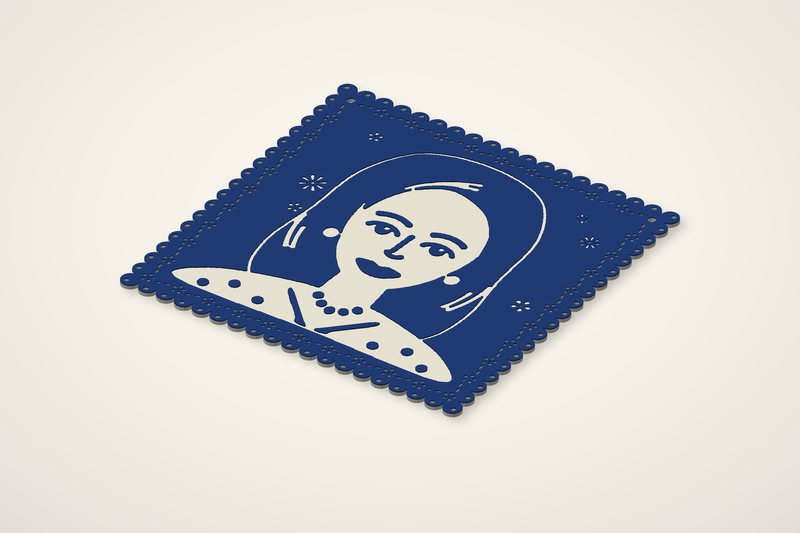
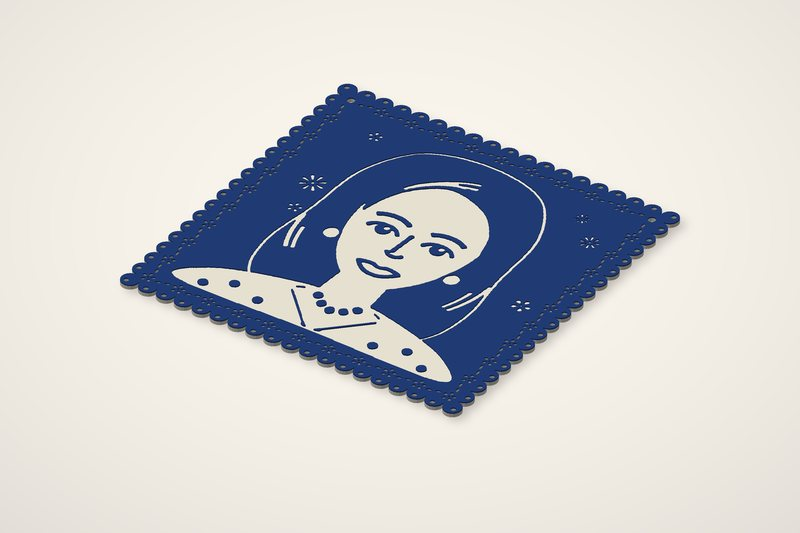
Papel portrait: a face is lines, not areas (a difference of Gaussians for the lines, a fill only for what is really dark), the narrowest line 0.7 mm
Roman set the reference beside our print of the same photo: ours was dark blots with thick rims, the reference thin
lines on a light face. A threshold on the picture made the hair of a fair face a blot, and the narrowest line of
0.9 mm (three cells) let no finer line through. Now a line is where the picture is darker than its surroundings
(near minus far blur below -tau), and a fill is only what is dark in itself: below the lowest of three levels of
grey and never above half the two-level split. "Portrait detail" is the width of the lines, "Light / dark" draws
more or fewer of them and fills more or less. The narrowest line is 0.7 mm (one wide extrusion), the small picture
of the result keeps one-cell lines, the share of dark is told with a decimal. Examples and card drawn again;
docs/T.md section 10.

diff --git a/engines/python/papel_portrait.py b/engines/python/papel_portrait.py
@@ -21,8 +21,9 @@ import tempfile
 import time
 
 HALO_MM = 1.2               # the light line between a dark head of hair and the dark ground
-LINE_MM = 0.9               # nothing of the picture is finer than about two printed lines
-PREVIEW_PX = 150            # the small picture of the result travels in a response header: it has to stay light
+LINE_MM = 0.7               # the narrowest line of the picture: one wide extrusion of a 0.4 mm nozzle, as the reference prints them
+FINE_MM = 0.6               # below this a line is in doubt on a 0.4 mm nozzle: the page warns when much of the picture is that fine
+PREVIEW_PX = 200            # the small picture of the result travels in a response header: it has to stay light
 PORTRAIT_PX = 480           # a portrait is read on a finer grid than a cut-out (creative_kinds.PAPEL_PX): a face is lines, not blots
 
 
@@ -247,27 +248,30 @@ def split(a, where, cell, darkness, detail):
     """
     Dark and light of a picture laid by lay(): True where the dark layer is printed, only within `where`.
 
-    A plain threshold makes a face a blot (half of it lies in shadow). The picture is first sharpened against a wide
-    blur of itself: where it is darker than its surroundings it gets darker still, so eyes, lips, glasses and strands
-    of hair come out as lines, while big dark areas stay filled. The level it is split at is the lower one of three
-    kinds of grey (otsu3), drawn a little towards the split in two. `detail` (0–100) is how fine the picture is
-    read; `darkness` moves the level (50 = where the picture splits itself).
+    A cut-paper portrait is lines, not areas: a threshold on the picture makes a face a blot. Two things are dark
+    here. Lines: where the picture is darker than its surroundings (a difference of Gaussians below -tau): brows,
+    eyes, the rim of glasses, lips, strands of hair, the shading of a cheek. Fill: what is really dark in itself
+    (dark hair, a coat, pupils): below the lowest of three levels of grey, and never above half of the one level
+    that splits the picture in two, so the hair of a fair face stays light. `detail` (0–100) is how fine the lines
+    are; `darkness` (50 = as the picture asks) draws more or fewer of them and fills more or less.
     Returns (dark, the smallest piece kept in cells, the width in cells below which nothing is printed).
     """
     import numpy as np
     from scipy import ndimage
     d = max(0.0, min(1.0, detail / 100.0))
-    thin = max(1, int(math.ceil(LINE_MM / cell - 0.05)))     # a pair of printed lines, in cells
-    sigma = max(3.2 - 2.3 * d, 0.35 * thin)                  # a small panel has small cells: never finer than it prints
-    near, far = ndimage.gaussian_filter(a, sigma), ndimage.gaussian_filter(a, sigma * 3.5)
-    sharp = near + (14.0 + 20.0 * d) * (near - far)
-    two = otsu(np, near[where]) if where.any() else None
+    thin = max(1, int(round(LINE_MM / cell)))                # the narrowest printed line, in cells
+    sigma = max(1.1 + 1.3 * (1.0 - d), 0.5 * thin)           # the width of a line; a small panel has small cells: never finer than it prints
+    near, far = ndimage.gaussian_filter(a, sigma), ndimage.gaussian_filter(a, 2.0 * sigma)
+    if not where.any():
+        return np.zeros(a.shape, dtype=bool), 4, thin
+    tau = 7.0 * 2.0 ** ((50.0 - darkness) / 25.0)
+    lines = (near - far) < -tau
+    two = otsu(np, near[where])
     if two is None:
         return np.zeros(a.shape, dtype=bool), 4, thin
-    low = otsu3(np, near[where])[0]
-    level = min(two, low + 0.15 * (two - low))
-    dark = (sharp <= level + (darkness - 50.0) * 2.0) & where
-    small = max(4, int(round(((2.4 - 1.2 * d) / cell) ** 2)))           # specks under 2.4 mm (few details) … 1.2 mm (many) go
+    fill = min(otsu3(np, near[where])[0], 0.5 * two) + (darkness - 50.0)
+    dark = (lines | (near <= fill)) & where
+    small = max(4, int(round(((2.0 - 1.0 * d) / cell) ** 2)))           # specks under 2 mm (few details) … 1 mm (many) go
     return dark, small, thin
 
 
@@ -317,7 +321,8 @@ def preview(np, dark):
     im = Image.fromarray(np.where(dark, 0, 255).astype(np.uint8), "L")
     im.thumbnail((PREVIEW_PX, PREVIEW_PX), Image.LANCZOS)
     out = io.BytesIO()
-    im.point(lambda v: 255 if v > 127 else 0).convert("1").save(out, "PNG", optimize=True)
+    # (a line one cell wide covers a quarter of a small pixel: it stays dark in the small picture, as it is in the print)
+    im.point(lambda v: 255 if v > 200 else 0).convert("1").save(out, "PNG", optimize=True)
     return base64.b64encode(out.getvalue()).decode("ascii")
 
 

diff --git a/tests/Feature/PapelPortraitTest.php b/tests/Feature/PapelPortraitTest.php
@@ -10,6 +10,7 @@ use App\Models\FarmOrder;
 use App\Models\FarmPrinter;
 use App\Models\ModelFile;
 use App\Models\User;
+use App\Support\PreviewMeta;
 use App\Support\ToolSeo;
 use Database\Seeders\FarmSeeder;
 use Illuminate\Foundation\Testing\RefreshDatabase;
@@ -62,7 +63,7 @@ class PapelPortraitTest extends TestCase
     /** @return array<string, mixed> */
     private function meta(array $params, string $part = 'all'): array
     {
-        return json_decode((string) $this->preview($params, $part)->assertOk()->headers->get('X-Model-Meta'), true);
+        return (array) PreviewMeta::whole($this->preview($params, $part)->assertOk()->headers->get('X-Model-Meta'));      // the small picture of the result may wait beside the header
     }
 
     /**
@@ -367,7 +368,7 @@ class PapelPortraitTest extends TestCase
         $this->assertArrayNotHasKey('preview', $empty['notes']);
         // the cut-out learnt the new frames too, and keeps the border it always had when none is named
         $skull = ['kind' => 'papel', 'params' => ['artwork' => 'lib:holidays/sugar-skull', 'width' => 150, 'height' => 200]];
-        $volume = fn (array $more) => json_decode((string) $this->postJson('/api/tools/param/preview', ['kind' => 'papel', 'params' => $skull['params'] + $more])->assertOk()->headers->get('X-Model-Meta'), true);
+        $volume = fn (array $more) => (array) PreviewMeta::whole($this->postJson('/api/tools/param/preview', ['kind' => 'papel', 'params' => $skull['params'] + $more])->assertOk()->headers->get('X-Model-Meta'));
         $old = $volume([]);
         $this->assertEqualsWithDelta($old['volume_mm3'], $volume(['border_mm' => 19.5, 'density' => 0.5, 'scallop_edge' => 'bottom'])['volume_mm3'], 0.5, '13 % of the shorter side');
         $this->assertSame(1, $old['notes']['ties']);

diff --git a/engines/python/creative_kinds.py b/engines/python/creative_kinds.py
@@ -934,7 +934,7 @@ def _papel_photo(M, path, win_w, win_h, darkness, soften, invert, look=None, pic
         if invert:
             paper = ~paper & where
         share, most = (float(paper[where].mean()) if where.any() else 0.0), 0.90
-        look["dark_pct"] = int(round(share * 100))
+        look["dark_pct"] = round(share * 100, 1)
         pad, how = thin + 2, {"structure": np.ones((thin, thin), dtype=bool)}        # nothing narrower than a printed line pair
         look["isolated"] = person is not None
     # (a portrait pushed half out of its window may show nothing but a coat: that is the visitor's doing, not a bad photo)
@@ -955,7 +955,8 @@ def _papel_photo(M, path, win_w, win_h, darkness, soften, invert, look=None, pic
 
     paper = tidy(paper)
     if look is not None:
-        look["thin_pct"] = int(round(100.0 * (1.0 - float(ndimage.binary_opening(paper, structure=np.ones((3, 3), dtype=bool)).sum()) / max(1.0, float(paper.sum())))))
+        fine = max(1, int(math.ceil(P.FINE_MM / cell)))     # what is narrower than this is in doubt on a 0.4 mm nozzle
+        look["thin_pct"] = int(round(100.0 * (1.0 - float(ndimage.binary_opening(paper, structure=np.ones((fine, fine), dtype=bool)).sum()) / max(1.0, float(paper.sum())))))
         if person is not None and look.get("backdrop") == "pattern":
             field = P.ground(np, paper, person, cell)
             look["spots"] = P.scatter(np, field, cell, look["unit"], look["density"])

diff --git a/lang/es/param.php b/lang/es/param.php
@@ -223,7 +223,7 @@ return [
     'papel.colors.hint' => 'El 3MF lleva los dos colores y la altura a la que cambian. El STL es un solo cuerpo para imprimir en un color.',
     'papel.swap' => 'Dos colores: el filamento se cambia una vez, a :z mm.',
     'papel.one' => 'Las dos partes tienen el mismo color, la impresión no necesita cambio de filamento.',
-    'warn.portrait_fine' => 'El retrato tiene mucho dibujo fino (el :n % de sus zonas es más estrecho que dos líneas de una boquilla de 0,4 mm). Baje «Detalle del retrato» o agrande el panel.',
+    'warn.portrait_fine' => 'El retrato tiene mucho dibujo fino (el :n % de sus zonas es más estrecho que 0,6 mm, que una boquilla de 0,4 mm quizá no imprima). Baje «Detalle del retrato» o agrande el panel.',
     'warn.portrait_whole' => 'No se pudo separar a la persona del fondo, se usa la foto entera.',
     'photo_organizer.lead' => 'Un organizador para lápices, maquillaje o cepillos de dientes con la forma de su imagen. El contorno hace la pared; dentro hay compartimentos en cuadrícula u orificios redondos.',
     'photo_organizer.tip' => 'Se imprime con el fondo hacia abajo y sin soportes. Para el baño elija PETG; el PLA se ablanda con el tiempo con la humedad y el calor. Un organizador con orificios es un bloque macizo: tarda más en imprimirse, pero no vuelca.',

diff --git a/lang/en/param.php b/lang/en/param.php
@@ -223,7 +223,7 @@ return [
     'papel.colors.hint' => 'The 3MF carries both colours and the height where they change. The STL is one solid for a one-colour print.',
     'papel.swap' => 'Two colours: the filament changes once, at :z mm.',
     'papel.one' => 'Both parts have the same colour, the print needs no filament change.',
-    'warn.portrait_fine' => 'The portrait has a lot of fine drawing (:n % of its areas are narrower than two lines of a 0.4 mm nozzle). Lower "Portrait detail", or make the panel bigger.',
+    'warn.portrait_fine' => 'The portrait has a lot of fine drawing (:n % of its areas are narrower than 0.6 mm, which a 0.4 mm nozzle may not print). Lower "Portrait detail", or make the panel bigger.',
     'warn.portrait_whole' => 'The person could not be separated from the background, the whole photo is used.',
     'photo_organizer.lead' => 'A holder for pencils, make-up or toothbrushes in the shape of your picture. The outline makes the wall; inside are compartments in a grid, or round holes.',
     'photo_organizer.tip' => 'It prints bottom down, without supports. For a bathroom choose PETG; PLA softens in damp and heat over time. A holder with holes is a solid block: it takes longer to print but does not tip over.',

diff --git a/lang/cs/param.php b/lang/cs/param.php
@@ -223,7 +223,7 @@ return [
     'papel.colors.hint' => '3MF nese obě barvy a výšku, ve které se mění. STL je jedno těleso pro tisk jednou barvou.',
     'papel.swap' => 'Dvě barvy: filament se vymění jednou, ve výšce :z mm.',
     'papel.one' => 'Obě části mají stejnou barvu, tisk je bez výměny filamentu.',
-    'warn.portrait_fine' => 'Portrét má hodně jemné kresby (:n % ploch je užších než dvě stopy trysky 0,4 mm). Snižte „Kresba portrétu“, nebo zvětšete panel.',
+    'warn.portrait_fine' => 'Portrét má hodně jemné kresby (:n % ploch je užších než 0,6 mm, což tryska 0,4 mm nemusí vytisknout). Snižte „Kresba portrétu“, nebo zvětšete panel.',
     'warn.portrait_whole' => 'Postavu se nepodařilo oddělit od pozadí, fotka je použitá celá.',
     'photo_organizer.lead' => 'Stojánek na tužky, líčení nebo kartáčky ve tvaru vašeho obrázku. Obrys udělá stěnu, uvnitř jsou přihrádky v mřížce, nebo kulaté otvory.',
     'photo_organizer.tip' => 'Tiskne se dnem dolů, bez podpěr. Do koupelny volte PETG, PLA ve vlhku a teple časem měkne. Stojánek s otvory je plný blok: tiskne se déle, ale nepřevrhne se.',

diff --git a/docs/T.md b/docs/T.md
@@ -271,3 +271,29 @@ fotkou síť u2net (řídící session naměřila 1,4 s na načtení modelu), da
 (nahrání, přepnutí na portrét, miniatury, tmavé pozadí), přímé oddělení sítí ve zkušebním prostředí s onnxruntime 1.31.
 **Neověřeno:** oddělení sítí na serveru (onnxruntime 1.30 tam je a model taky, ale tenhle kód tam ještě neběžel),
 vložení ze schránky, mobil, a pořád nic netištěno.
+
+## 10. Třetí kolo (10. 10. 2026, Roman: „kresba musí být jemnější“)
+
+Roman poslal vedle sebe předlohu a náš výsledek po druhém kole se stejnou fotkou: u nás tmavé plochy s tlustými
+čarami (vlasy jako skvrny, obroučky brýlí 1 mm), u předlohy tenké čáry na světlé tváři.
+
+**Co bylo špatně.** Dělili jsme obraz prahem: tmavé bylo všechno pod úrovní, i středně tmavé vlasy, a zostření
+proti rozostření jen posouvalo, co pod úroveň spadne. Nejtenčí čára byla 0,9 mm (`LINE_MM`), tedy 3 buňky, a
+otevření 3 × 3 smazalo každou tenčí čáru, takže zbyly jen plochy.
+
+**Co se změnilo** (`papel_portrait.split`):
+
+- **Čáry a výplň zvlášť.** Čára je tam, kde je obraz tmavší než okolí (rozdíl dvou rozostření pod −τ, poměr
+  šířek 1 : 2): obočí, oči, obroučky, rty, prameny, stín tváře. Výplň je jen to, co je tmavé samo o sobě: pod
+  nejnižší ze tří úrovní šedi (`otsu3`), ale nikdy nad polovinou úrovně, která dělí obraz na dvě; světlé vlasy tak
+  zůstanou světlé, tmavé vlasy a kabát se vyplní.
+- **Posuvníky.** „Kresba portrétu“ řídí šířku čáry (σ od 2,4 do 1,1 buňky). „Světlo / stín“ řídí τ (7 při 50,
+  dvojnásobek na každých 25 dílků dolů) a posouvá úroveň výplně o dílek na dílek.
+- **Nejtenčí čára 0,7 mm** (jedna široká stopa trysky 0,4, jak to tiskne předloha): `LINE_MM = 0.7`, buňky se
+  zaokrouhlují místo zaokrouhlení nahoru, u panelu 190 mm je to 2 buňky. Varování `portrait_fine` měří plochy
+  užší než 0,6 mm (`FINE_MM`); po otevření nemůže nastat, zůstává jako pojistka a texty říkají 0,6 mm.
+- **Náhled** 200 px, práh 200 místo 128, aby čára široká jednu buňku v miniatuře nezmizela.
+
+Ověřeno na devíti fotkách (tři světlovlasé, tři tmavovlasé, jedna bez oddělení pozadí, kreslená tvář, panel
+100 mm) a testy `PapelPortraitTest` + `PapelPicadoTest`; ukázky a karta překresleny. Na Romanově fotce ne, tu
+nemám. Stavba 190 mm je lokálně 0,25–0,35 s bez startu interpretu (stejně jako před kolem).
